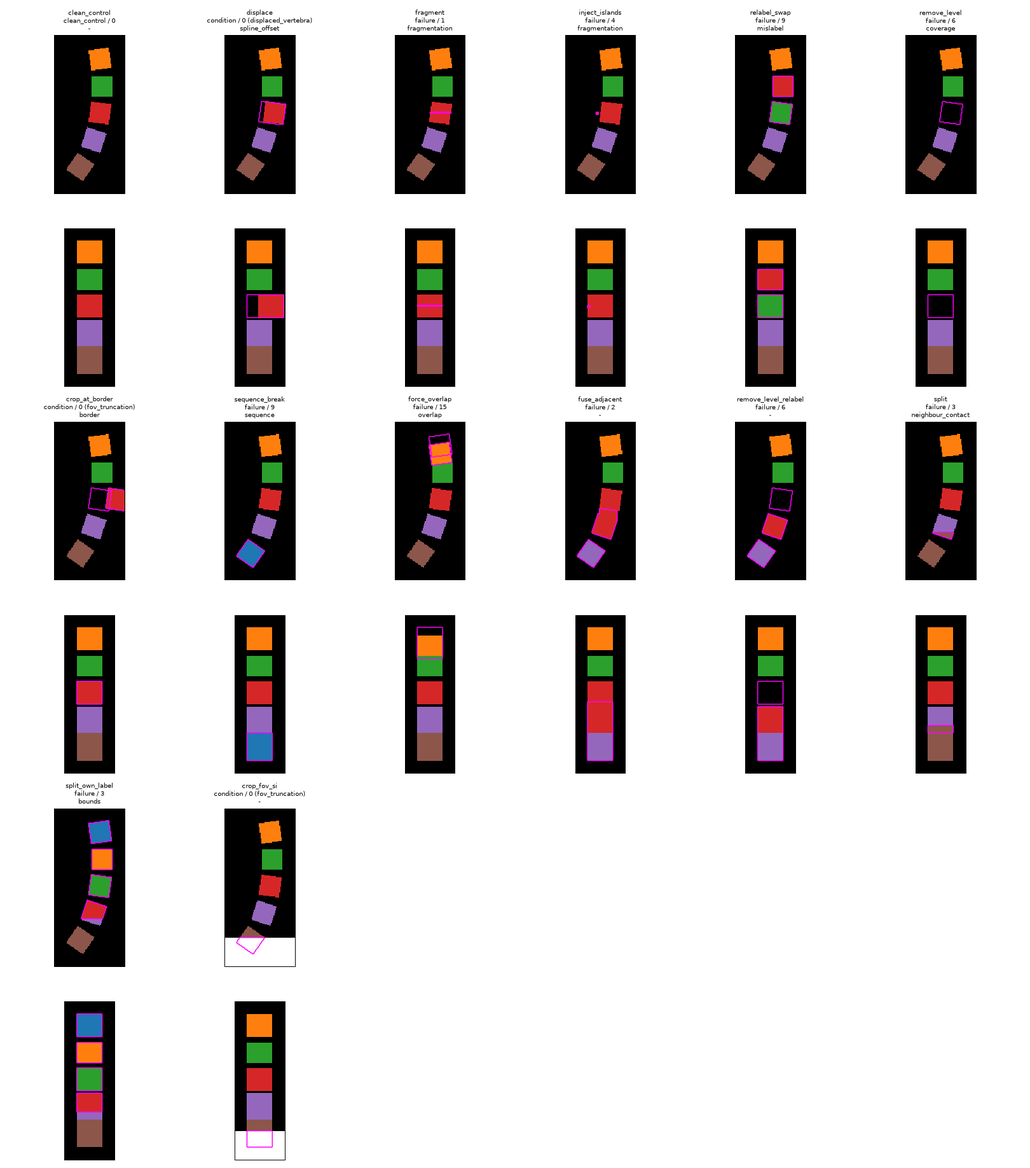
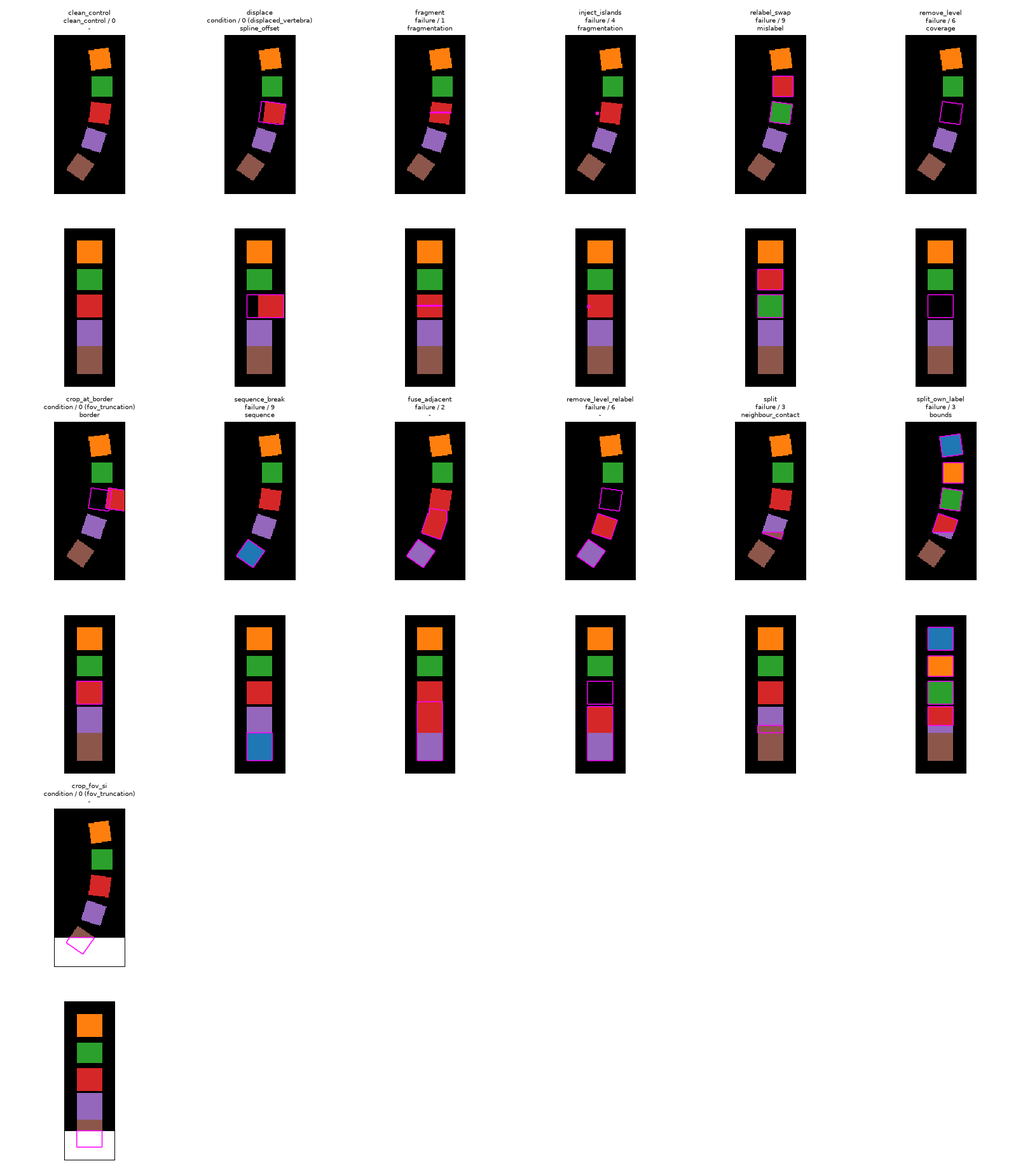
chore(195): regenerate corpus and derived artifacts
Regenerates tests/corpus/manifest.json (13 cases), the 094 pre-migration snapshot (drops the removed fixture's key), and the failure_modes/traceability_matrix/feature_catalogue/golden_evidence/corpus_sheet artifacts.

diff --git a/docs/aide/traceability_matrix.generated.md b/docs/aide/traceability_matrix.generated.md
@@ -12,7 +12,7 @@ Direction complete: False. Holes: 12, 13, 14, 5, 6, 7, 8.
 |---|---|---|---|---|---|---|---|---|---|
 | 1 | Segmentation accuracy (over-/under-segmentation) | validated | specified | fragmentation (corpus) | fragmentation (components): synthetic-demonstrable | synthetic-demonstrable -- No shipped rule decides this mode in general: it needs a ground-truth label map, which the per-case pipeline never sees. One form is demonstrated end-to-end: fragment cuts a background slab through label 22 and fragmentation's Fragmentation: detector fires on the two comparably-sized same-label pieces via per_label.{label}.components.fragmentation_index. (Item 189, 2026-09-28: displace, a rigidly translated vertebra, is no longer one of this mode's corpus cases -- its spline-offset firing is the displaced_vertebra CONDITION's own signature, not evidence of segmentation accuracy. Item 193, 2026-09-28: reference_delta, which scored a vertebra's geometry against its named level's cohort, is a general outlier detector and serves no mode -- see mode 8's mechanism. Item 194, 2026-09-28: bounds' per-label volume/extent range is no longer this mode's proxy -- it serves modes 2, 3 and 4, and a detector that serves another mode is never also attributed to this catch-all.) | True | per_label.{label}.components.fragmentation_index | per_label.{label}.components.component_count, per_label.{label}.components.component_sizes[], per_label.{label}.components.fragmentation_index, per_label.{label}.components.largest_component_fraction, per_label.{label}.components.stray_component_sizes[] |
 | 2 | Fused vertebra segments | implemented | specified | bounds (analytic) | bounds (metric_out_of_range): needs-real-data | needs-real-data -- Observable from the label map via a proxy, still to be proven: a fused segment reads over its level's volume/extent range (bounds, per_label.{label}.geometry.physical_volume_mm3), needs-real-data. The corpus case fuse_adjacent (item 176) fuses label 23 (L4) into 22 (L3) bridged -- one connected label over two bodies, with L5 renumbered 23 so the sequence stays continuous -- and fires nothing: its signature is the doubled inter-centroid spacing around the fused label (stage3.spacing_consistency.spacings_mm[], about 1.5x the pitch), which no shipped rule reads. | True | (none) | per_label.{label}.geometry.extent_x_mm, per_label.{label}.geometry.extent_y_mm, per_label.{label}.geometry.extent_z_mm, per_label.{label}.geometry.physical_volume_mm3 |
-| 3 | Split vertebra segment | validated | specified | bounds (corpus), neighbour_contact (corpus) | bounds (metric_out_of_range): needs-real-data; neighbour_contact (stray_contact): synthetic-demonstrable | synthetic-demonstrable -- Its own rule as of item 187: neighbour_contact's stray_contact detector fires on per_label.{label}.components.component_contacts[].contact_fraction -- a stray (non-largest) component's 6-neighbour face-contact area with its single most-contacted other non-zero label, as a fraction of that component's own surface area -- strictly above DEFAULT_CONTACT_FRACTION (0.1). Measured over both committed corpora (2026-09-27): the only firing value is 0.3317 (label 24's stray component against label 23 on the split case: 806.0 mm^2 over 2430.0 mm^2 of surface, 4030 voxels, +0.2317 above threshold, 3.3x) and every other stray component of every other case measures 0.0 (0.1 below it) -- including force_overlap (mode 15), whose contacting components are each label's largest, and fuse_adjacent (mode 2, this mode's converse), whose fused label is a single component, so it has no stray component to measure (item 176). The absolute measure item 167 introduced (per_label.{label}.components.stray_contact_area_mm2) is unchanged and still available, but is no longer read by any rule: it understates a small stray component's contact (item 187's reason for the move -- a small component shows little absolute contact even when most of its surface touches a neighbour). On the split corpus case, label 24 carries this mode's own Neighbour contact: finding alone: mode 1's Fragmentation: detector (the fragmentation rule's per-label fragmentation index) stays silent at 0.8276, above its 0.75 threshold. Sub-type (b), a part carrying a label of its own (the split_own_label case), is seen only by bounds, not by this detector: the part is its label's only component, so it has no stray component to measure -- though its label_contact_fraction (the same relative measure over the whole label) reads 0.3317, which no rule reads (Left open, item 187). A secondary, needs-real-data proxy remains: the split vertebra reading under its level's volume/extent range (bounds, per_label.{label}.geometry.physical_volume_mm3). The neighbour that takes the part reads over its range, which is mode 2's proxy, so on a real case the two modes' proxy signals co-occur. | True | (none) | per_label.{label}.components.component_contacts[].contact_fraction, per_label.{label}.geometry.extent_x_mm, per_label.{label}.geometry.extent_y_mm, per_label.{label}.geometry.extent_z_mm, per_label.{label}.geometry.physical_volume_mm3 |
+| 3 | Split vertebra segment | validated | specified | bounds (corpus), neighbour_contact (corpus) | bounds (metric_out_of_range): needs-real-data; neighbour_contact (stray_contact): synthetic-demonstrable | synthetic-demonstrable -- Its own rule as of item 187: neighbour_contact's stray_contact detector fires on per_label.{label}.components.component_contacts[].contact_fraction -- a stray (non-largest) component's 6-neighbour face-contact area with its single most-contacted other non-zero label, as a fraction of that component's own surface area -- strictly above DEFAULT_CONTACT_FRACTION (0.1). Measured over both committed corpora (2026-09-27): the only firing value is 0.3317 (label 24's stray component against label 23 on the split case: 806.0 mm^2 over 2430.0 mm^2 of surface, 4030 voxels, +0.2317 above threshold, 3.3x) and every other stray component of every other case measures 0.0 (0.1 below it) -- including fuse_adjacent (mode 2, this mode's converse), whose fused label is a single component, so it has no stray component to measure (item 176). The absolute measure item 167 introduced (per_label.{label}.components.stray_contact_area_mm2) is unchanged and still available, but is no longer read by any rule: it understates a small stray component's contact (item 187's reason for the move -- a small component shows little absolute contact even when most of its surface touches a neighbour). On the split corpus case, label 24 carries this mode's own Neighbour contact: finding alone: mode 1's Fragmentation: detector (the fragmentation rule's per-label fragmentation index) stays silent at 0.8276, above its 0.75 threshold. Sub-type (b), a part carrying a label of its own (the split_own_label case), is seen only by bounds, not by this detector: the part is its label's only component, so it has no stray component to measure -- though its label_contact_fraction (the same relative measure over the whole label) reads 0.3317, which no rule reads (Left open, item 187). A secondary, needs-real-data proxy remains: the split vertebra reading under its level's volume/extent range (bounds, per_label.{label}.geometry.physical_volume_mm3). The neighbour that takes the part reads over its range, which is mode 2's proxy, so on a real case the two modes' proxy signals co-occur. | True | (none) | per_label.{label}.components.component_contacts[].contact_fraction, per_label.{label}.geometry.extent_x_mm, per_label.{label}.geometry.extent_y_mm, per_label.{label}.geometry.extent_z_mm, per_label.{label}.geometry.physical_volume_mm3 |
 | 4 | Islands (disconnected components) | validated | specified | bounds (analytic), fragmentation (corpus) | fragmentation (islands): synthetic-demonstrable; bounds (metric_out_of_range): needs-real-data | synthetic-demonstrable -- fragmentation's Rogue island(s): detector serves this mode end-to-end on the committed corpus: inject_islands adds tiny rogue blocks beside label 22 and the detector fires via per_label.{label}.components.stray_component_sizes[]. bounds stays needs-real-data: a stray island shifts volume only marginally. | True | per_label.{label}.components.stray_component_sizes[] | per_label.{label}.components.component_count, per_label.{label}.components.component_sizes[], per_label.{label}.components.fragmentation_index, per_label.{label}.components.largest_component_fraction, per_label.{label}.components.stray_component_sizes[], per_label.{label}.geometry.extent_x_mm, per_label.{label}.geometry.extent_y_mm, per_label.{label}.geometry.extent_z_mm, per_label.{label}.geometry.physical_volume_mm3 |
 | 5 | Holes (enclosed background) | proposed | proposed |  | (none) | (none) -- No rule, no corpus case and no extracted feature: listed as proposed. The candidate inputs are a per-label count and volume of enclosed background components (enclosed_cavity_count, enclosed_cavity_volume_mm3), and the label's euler_characteristic compared against the genus its level is expected to have; the feature layer extracts neither. | False | (none) | (none) |
 | 6 | Vertebra not segmented | specified | specified |  | (none) | (none) -- Defined against ground truth (the Stage-18 metric counts GT levels with no candidate voxels). No registered rule decides this mode since item 188 (2026-09-28): coverage's interior-gap detector fires on the label gap in relationships.missing_levels[] that remove_level leaves -- the vertebra is deleted without renumbering and the remaining labels are kept -- but that detector serves mode 10 (skipped level label), because it cannot tell a missed vertebra from a skipped label on a segmented one; so remove_level's firing (coverage and, since item 192, sequence's skip detector, both mode-10 detectors) is a recorded co-detection, not this mode's own evidence. remove_level_relabel fires nothing: it deletes L3 and renumbers L4/L5 to L3/L4, leaving a continuous label sequence with a doubled inter-centroid spacing (stage3.spacing_consistency.spacings_mm[]) that no rule reads. That doubled spacing is this mode's own label-map signal -- it would also catch remove_level -- and its rule is decided in a later per-mode queue (roadmap Stage 33 scope decisions). Two further hypothesised signals cover a missing vertebra at the FOV end: extrapolating the centroid sequence toward the image face, and checking that no label touches a scan boundary that lacks a terminal label. | True | relationships.present_levels[] | (none) |
@@ -24,7 +24,7 @@ Direction complete: False. Holes: 12, 13, 14, 5, 6, 7, 8.
 | 12 | Shifted label sequence | proposed | proposed |  | (none) | (none) -- No shipped rule, no candidate feature in the record, no corpus case: listed as proposed. The one hypothesised input is a vertebra-level classifier's output (spine section and counting reference), compared against relationships.present_levels[]. | False | (none) | (none) |
 | 13 | Collapsed labels | proposed | proposed |  | (none) | (none) -- No rule exists for this mode yet, which is what proposed means. The candidate inputs are the minimum inter-label centroid distance relative to the expected spacing (stage3.spacing_consistency.spacings_mm[]) and the stage3_unavailable.reason field the degenerate case populates (item 129), which no rule reads. | False | (none) | (none) |
 | 14 | Duplicated label | proposed | proposed |  | (none) | (none) -- No rule exists for this mode yet, which is what proposed means. The candidate inputs are per-component centroids and volumes (not extracted today): two components under one label, each of vertebral-body size and separated by more than an inter-vertebral spacing. fragmentation's Fragmentation: detector (mode 1's) would co-detect on two comparably-sized components (per_label.{label}.components.fragmentation_index). | False | (none) | (none) |
-| 15 | Overlapping segments | validated | specified | overlap (corpus) | overlap (overlapping_segments): structurally-unobservable | structurally-unobservable -- A single-channel integer label map cannot assign two labels to one voxel, so overlaps[] populates only on a case deliberately corrupted to violate that invariant, which no real segmenter output can be; force_overlap therefore stays detection="reconstructed_record" rather than pipeline-detected, while the overlap rule and the paths it reads remain correct and fully wired. | False | overlaps[].overlap_voxels | overlaps[].overlap_voxels |
+| 15 | Overlapping segments | implemented | specified | overlap (analytic) | overlap (overlapping_segments): structurally-unobservable | structurally-unobservable -- A single-channel integer label map holds exactly one label per voxel, so overlaps[].overlap_voxels can be non-zero only on a multi-channel input, which no FACET input path supplies: the pipeline builds its mask stack from the one label map. The overlap rule reads that path, is correct and fully wired, and is declared to need multi-channel input. No committed corpus case expresses this mode, because a single-channel fixture cannot hold an overlap (item 195, 2026-09-28). | False | overlaps[].overlap_voxels | overlaps[].overlap_voxels |
 | 16 | Implausible tissue under a label | validated | specified | intensity (corpus) | intensity (degenerate, too_high, too_low): synthetic-demonstrable | synthetic-demonstrable -- The committed intensity corpus demonstrates this mode end-to-end three times over: implausible_metal (label 22's median reads 2999 HU, above the plausible bone band's ceiling), implausible_soft_tissue (40 HU, below its floor) and degenerate_uniform (a constant fill, zero spread) each drive the intensity rule through segfacet.synth.regression.intensity_pipeline_findings, which is why that edge sits at the strongest rung. intensity_reference_delta declares no mode since item 193 (2026-09-28): none of its consumed_paths entries is classified signal, so it contributes no mode to any path. It cannot fire on the committed corpus in any case: the synthetic intensity corpus is built against no reference distribution and the harness attaches none. | True | (none) | image_features.per_label.{label}.first_order.median, image_features.per_label.{label}.first_order.std |
 
 mode -> read_paths is signal-classified: a path's presence in a mode row's read_paths means a rule declaring this mode classifies that path "signal" (segfacet.heuristics.rule.RuleModeDeclaration.consumed_paths, item 148), not that this path alone evidences this mode. The Stage-18 metric anchor (anchor_paths) is a separate column that is never merged in.
@@ -43,7 +43,7 @@ Direction complete: True. Holes: none.
 | intensity_reference_delta |  | mode_less: none of this rule's consumed_paths entries is classified 'signal' (it reads record['intensity_reference_delta'], a block no driver realises, so it has no catalogued leaf path of its own): a mode claim with no signal path contributes no mode to any path (item 193, 2026-09-28, superseding item 146's mode-16 declaration). The rule still runs and fires exactly as before -- no threshold, condition, severity or evaluate line changed. |  | per_label, reference_delta.lower_pct, reference_delta.upper_pct, reference_delta.{label}.distribution_distance, reference_delta.{label}.features.physical_volume_mm3.percentile_rank, reference_delta.{label}.features.physical_volume_mm3.robust_z, reference_delta.{label}.features.physical_volume_mm3.value, reference_delta.{label}.out_of_range_features[] |
 | mislabel | 9 | declared | corpus-manifest · tests/corpus/manifest.json's relabel_swap designates this rule for mode 9 (out-of-order label sequence) of the catalogue signed off at item 150 (2026-09-14, revised 2026-09-15) via Detector B (ordering). Item 189 (2026-09-28) moved the former Detector A (spline offset), which served no failure mode, to heuristics.spline_offset -- see that module's declaration for its evidence. | per_label, stage3.monotonic_consistency.non_monotonic_pairs[] |
 | neighbour_contact | 3 | declared | corpus-manifest · tests/corpus/manifest.json's split designates this rule for mode 3 (split vertebra segment) of the catalogue signed off at item 150 (2026-09-14, revised 2026-09-15). Item 187 moved the detector here from fragmentation.py and re-expressed the threshold on the relative measure: measured 2026-09-27, the split case's label-24 stray component reads a contact_fraction of 0.3317, +0.2317 above the 0.1 threshold (3.3x), and every other stray component in either corpus measures 0.0 -- the stray_contact detector. The mode 3 <-> neighbour_contact evidence claim is the per-edge rung in segfacet.failure_modes.SPECIFICATION[3]. | per_label, per_label.{label}.components.component_contacts[].contact_fraction, per_label.{label}.components.component_contacts[].neighbour_label, per_label.{label}.components.component_sizes[], per_label.{label}.level_name |
-| overlap | 15 | declared | corpus-manifest · tests/corpus/manifest.json's force_overlap designates this rule for mode 15 (overlapping segments) of the catalogue signed off at item 150 (2026-09-14, revised 2026-09-15). That case is detection="reconstructed_record", not pipeline-detected: a single-channel integer label map cannot assign two labels to one voxel, so overlaps[] populates only on a deliberately corrupted record. Free-form provenance -- item 147 retired the reserved 'corpus' evidence tag, and the mode 15 <-> overlap evidence claim is the per-edge rung in segfacet.failure_modes.SPECIFICATION[15]. | overlaps[], overlaps[].label_a, overlaps[].label_b, overlaps[].name_a, overlaps[].name_b, overlaps[].overlap_voxels |
+| overlap | 15 | declared | analytic · needs multi-channel input: overlaps[] is non-empty only when two labels claim one voxel, which a single-channel integer label map cannot express, so the pipeline's one-hot mask stack yields no overlap on any input FACET accepts today. Mode 15 (overlapping segments) of the catalogue signed off at item 150; the per-edge rung in segfacet.failure_modes.SPECIFICATION[15] is structurally-unobservable, and no committed corpus case designates this rule (item 195, 2026-09-28). | overlaps[], overlaps[].label_a, overlaps[].label_b, overlaps[].name_a, overlaps[].name_b, overlaps[].overlap_voxels |
 | reference_delta |  | mode_less: general outlier detector, not a failure mode's own signal: this rule thresholds a label's deviation from its level's cohort reference distribution (item 193, 2026-09-28, superseding item 137's modes-1/2/3/4/8 declaration). The rule still runs and fires exactly as before -- no threshold, condition, severity or evaluate line changed. failure_modes.SPECIFICATION carries no IntendedRule edge naming this rule for any mode. |  | per_label, reference_delta.lower_pct, reference_delta.upper_pct, reference_delta.{label}.available, reference_delta.{label}.distribution_distance, reference_delta.{label}.features.physical_volume_mm3.percentile_rank, reference_delta.{label}.features.physical_volume_mm3.robust_z, reference_delta.{label}.features.physical_volume_mm3.value, reference_delta.{label}.label, reference_delta.{label}.level_name, reference_delta.{label}.out_of_range_features[] |
 | sequence | 9, 10, 11 | declared | corpus-manifest · tests/corpus/manifest.json's relabel_swap designates this rule for mode 9 (swap of two adjacent labels) and sequence_break for mode 9 (a single-label tail shift); remove_level co-detects this rule's skip on mode 10 beside coverage; mode 11 (a non-default section reading the field of view does not corroborate) has no committed corpus case, so that edge is analytic. Re-measured live, item 192 (2026-09-28), after the rule stopped reading relationships.out_of_order_labels[] (ascending integer-label order, item 186's defect) in favour of per_label centroids ranked by CANONICAL_ORDER. | per_label, per_label.{label}.centroid.centroid_mm[], per_label.{label}.label, per_label.{label}.level_name |
 | spline_offset |  | mode_less: records the displaced_vertebra CONDITION (failure_modes.CONDITIONS['displaced_vertebra']), not a failure mode: the offset from the spinal curve is an anatomy-classification signal (spondylolisthesis, scoliosis, a rigid misplacement), not a defect of the segmentation -- item-150 sign-off, moved here from mislabel.py's Detector A at item 189 (2026-09-28). tests/corpus/manifest.json's displace is that condition's fixture. |  | stage3.per_label_offsets[].dx_mm, stage3.per_label_offsets[].dy_mm, stage3.per_label_offsets[].dz_mm, stage3.per_label_offsets[].is_terminal, stage3.per_label_offsets[].label, stage3.per_label_offsets[].level_name, stage3.per_label_offsets[].offset_mm |
@@ -62,7 +62,7 @@ a leaf path no rule reads is inventory, not a gap: the feature record is a delib
 
 ## Conformance — expected vs measured firing
 
-Agree: 18. Disagree: 0. Conformant: True.
+Agree: 17. Disagree: 0. Conformant: True.
 
 | Corpus | Case | Mode | Expected firing | Measured firing | Agrees | Source |
 |---|---|---|---|---|---|---|
@@ -70,7 +70,6 @@ Agree: 18. Disagree: 0. Conformant: True.
 | geometric | crop_at_border | 0 | border | border | True | specification-condition |
 | geometric | crop_fov_si | 0 | (none) | (none) | True | specification-condition |
 | geometric | displace | 0 | spline_offset | spline_offset | True | specification-condition |
-| geometric | force_overlap | 15 | overlap | overlap | True | specification |
 | geometric | fragment | 1 | fragmentation | fragmentation | True | specification |
 | geometric | fuse_adjacent | 2 | (none) | (none) | True | specification |
 | geometric | inject_islands | 4 | fragmentation | fragmentation | True | specification |
@@ -107,7 +106,7 @@ Direction complete: True. Holes: none.
 | intensity_reference_delta | unexercised | (none) | needs-real-data | (none) |
 | mislabel | exercised | geometric/relabel_swap | (none) | (none) |
 | neighbour_contact | exercised | geometric/split | (none) | (none) |
-| overlap | exercised | geometric/force_overlap | (none) | (none) |
+| overlap | unexercised | (none) | structurally-unobservable | 15 |
 | reference_delta | unexercised | (none) | needs-real-data | (none) |
 | sequence | exercised | geometric/relabel_swap, geometric/remove_level, geometric/sequence_break | (none) | (none) |
 | spline_offset | exercised | geometric/displace | (none) | (none) |
@@ -121,7 +120,6 @@ Direction complete: True. Holes: none.
 | crop_at_border | used | crop_at_border | (none) |
 | crop_fov | used | crop_fov_si | (none) |
 | displace | used | displace | (none) |
-| force_overlap | used | force_overlap | (none) |
 | fragment | used | fragment | (none) |
 | fuse | used | fuse_adjacent | (none) |
 | identity | used | clean_control | (none) |

diff --git a/docs/aide/failure_modes.generated.md b/docs/aide/failure_modes.generated.md
@@ -99,7 +99,7 @@ Candidate features:
 - `hypothesised` candidate path: `spline_leave_one_out_shape_change`
 - `hypothesised` candidate path: `metric_change_under_merge_candidate`
 
-Mechanism: Its own rule as of item 187: neighbour_contact's stray_contact detector fires on per_label.{label}.components.component_contacts[].contact_fraction -- a stray (non-largest) component's 6-neighbour face-contact area with its single most-contacted other non-zero label, as a fraction of that component's own surface area -- strictly above DEFAULT_CONTACT_FRACTION (0.1). Measured over both committed corpora (2026-09-27): the only firing value is 0.3317 (label 24's stray component against label 23 on the split case: 806.0 mm^2 over 2430.0 mm^2 of surface, 4030 voxels, +0.2317 above threshold, 3.3x) and every other stray component of every other case measures 0.0 (0.1 below it) -- including force_overlap (mode 15), whose contacting components are each label's largest, and fuse_adjacent (mode 2, this mode's converse), whose fused label is a single component, so it has no stray component to measure (item 176). The absolute measure item 167 introduced (per_label.{label}.components.stray_contact_area_mm2) is unchanged and still available, but is no longer read by any rule: it understates a small stray component's contact (item 187's reason for the move -- a small component shows little absolute contact even when most of its surface touches a neighbour). On the split corpus case, label 24 carries this mode's own Neighbour contact: finding alone: mode 1's Fragmentation: detector (the fragmentation rule's per-label fragmentation index) stays silent at 0.8276, above its 0.75 threshold. Sub-type (b), a part carrying a label of its own (the split_own_label case), is seen only by bounds, not by this detector: the part is its label's only component, so it has no stray component to measure -- though its label_contact_fraction (the same relative measure over the whole label) reads 0.3317, which no rule reads (Left open, item 187). A secondary, needs-real-data proxy remains: the split vertebra reading under its level's volume/extent range (bounds, per_label.{label}.geometry.physical_volume_mm3). The neighbour that takes the part reads over its range, which is mode 2's proxy, so on a real case the two modes' proxy signals co-occur.
+Mechanism: Its own rule as of item 187: neighbour_contact's stray_contact detector fires on per_label.{label}.components.component_contacts[].contact_fraction -- a stray (non-largest) component's 6-neighbour face-contact area with its single most-contacted other non-zero label, as a fraction of that component's own surface area -- strictly above DEFAULT_CONTACT_FRACTION (0.1). Measured over both committed corpora (2026-09-27): the only firing value is 0.3317 (label 24's stray component against label 23 on the split case: 806.0 mm^2 over 2430.0 mm^2 of surface, 4030 voxels, +0.2317 above threshold, 3.3x) and every other stray component of every other case measures 0.0 (0.1 below it) -- including fuse_adjacent (mode 2, this mode's converse), whose fused label is a single component, so it has no stray component to measure (item 176). The absolute measure item 167 introduced (per_label.{label}.components.stray_contact_area_mm2) is unchanged and still available, but is no longer read by any rule: it understates a small stray component's contact (item 187's reason for the move -- a small component shows little absolute contact even when most of its surface touches a neighbour). On the split corpus case, label 24 carries this mode's own Neighbour contact: finding alone: mode 1's Fragmentation: detector (the fragmentation rule's per-label fragmentation index) stays silent at 0.8276, above its 0.75 threshold. Sub-type (b), a part carrying a label of its own (the split_own_label case), is seen only by bounds, not by this detector: the part is its label's only component, so it has no stray component to measure -- though its label_contact_fraction (the same relative measure over the whole label) reads 0.3317, which no rule reads (Left open, item 187). A secondary, needs-real-data proxy remains: the split vertebra reading under its level's volume/extent range (bounds, per_label.{label}.geometry.physical_volume_mm3). The neighbour that takes the part reads over its range, which is mode 2's proxy, so on a real case the two modes' proxy signals co-occur.
 
 Intended rules:
 
@@ -468,15 +468,16 @@ Corpus cases:
 - Severity: flagged-for-review
 - Provenance: hypothesised
 - Status, authored: specified
-- Status, derived (live): validated
+- Status, derived (live): implemented
 - Derived rung (strongest edge, live): structurally-unobservable
 - Maintainer sign-off: (none recorded)
 
 Candidate features:
 
 - Stage-18 metric anchor path (`stage18-metric-anchor`): `overlaps[].overlap_voxels`
+- `hypothesised` candidate path: `eval.per_mode.overlapping_voxel_count`
 
-Mechanism: A single-channel integer label map cannot assign two labels to one voxel, so overlaps[] populates only on a case deliberately corrupted to violate that invariant, which no real segmenter output can be; force_overlap therefore stays detection="reconstructed_record" rather than pipeline-detected, while the overlap rule and the paths it reads remain correct and fully wired.
+Mechanism: A single-channel integer label map holds exactly one label per voxel, so overlaps[].overlap_voxels can be non-zero only on a multi-channel input, which no FACET input path supplies: the pipeline builds its mask stack from the one label map. The overlap rule reads that path, is correct and fully wired, and is declared to need multi-channel input. No committed corpus case expresses this mode, because a single-channel fixture cannot hold an overlap (item 195, 2026-09-28).
 
 Intended rules:
 
@@ -484,7 +485,7 @@ Intended rules:
 
 Corpus cases:
 
-- `force_overlap` (geometric): expected firing = [overlap]; agrees with live measurement: True. reconstructed-record-detected; overlap is the sole rule that fires on this corpus case, measured live via segfacet.synth.regression.reconstructed_findings (2026-09-14). A voxel in a single-channel integer label map holds exactly one label, so overlaps[] can only populate when the record is deliberately corrupted to violate that invariant -- which this case's reconstruction does.
+- (none)
 
 ## Mode 16: Implausible tissue under a label
 
